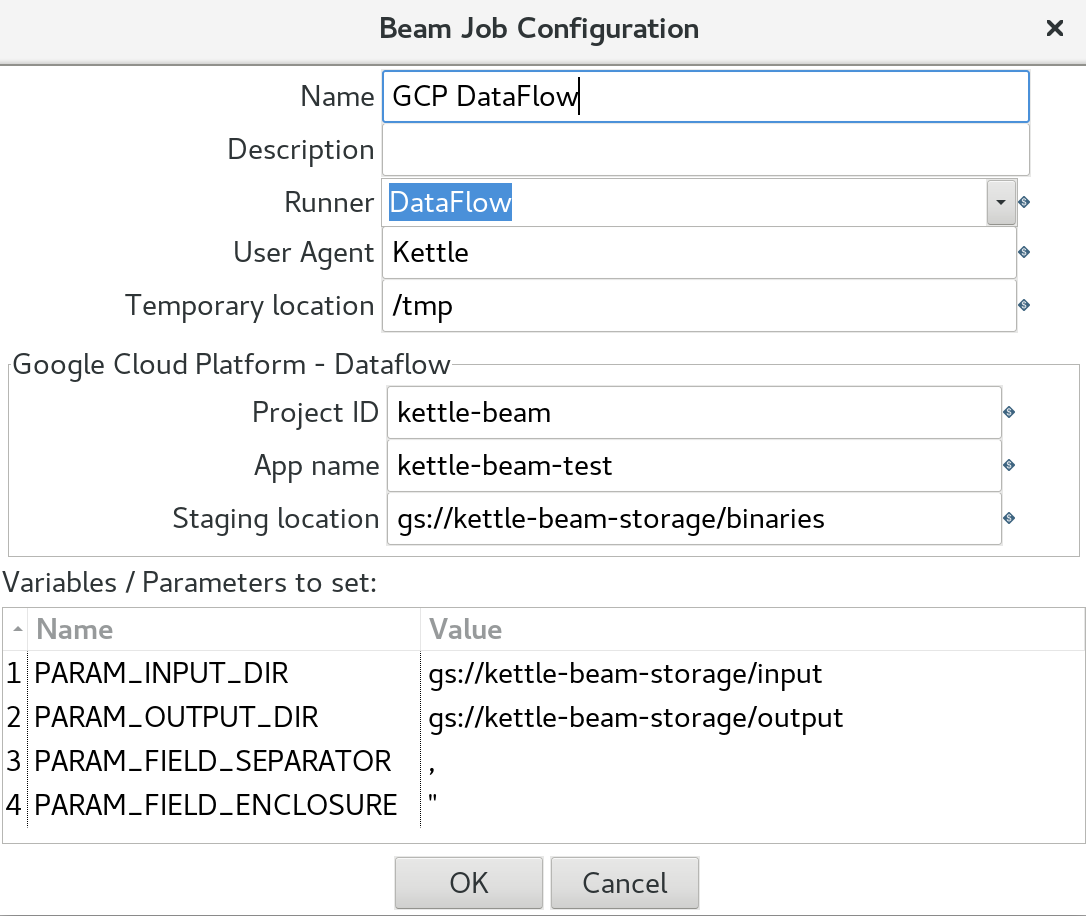
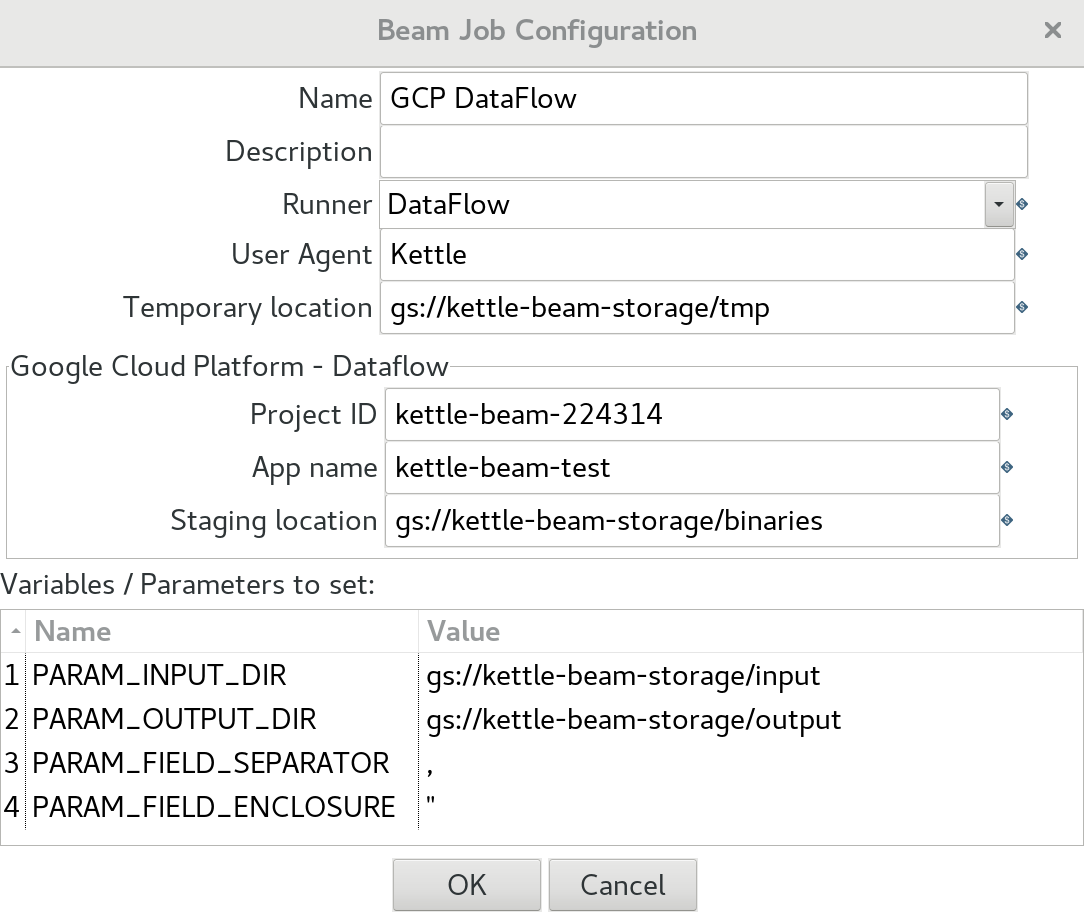
GCP DataFlow details extended

Changed region(s): [[0.0, 0.0, 1.0, 0.917], [0.3653, 0.6725, 0.7915, 0.7948], [0.3653, 0.917, 0.6393, 1.0]]

diff --git a/_posts/2018-12-01-Kettle-Beam.md b/_posts/2018-12-01-Kettle-Beam.md
@@ -248,7 +248,7 @@ You can execute the **PDI Beam Pipeline** via **Beam > Run this transformation o
 
 > **Note**: This works as well with **PDI CE** (Community Edition, the one you downloaded from SourceForge) - no **EE** subscription required.
 
-### GCP Setup
+### Setting up a Service Account
 
 Background info:
 
@@ -265,8 +265,7 @@ Before gettings started make sure you have GCP account set up and you have the r
 5. Assign your **service account** to the **custom role**. Go back to the **IAM** page, click on the **pencil** icon left next to the service account and click on the **Role** pull-down menu. Type `beam` into the filter and then select our `kettle-beam-role`.
 6. Create a **storage bucket**: Go to the [GCP Storage page](https://console.cloud.google.com/storage/browser) and click on **Create bucket**. Name it `kettle-beam-storage`. Once created, you should be automatically forwarded to the **Bucket Details** page: Click on **Create folder** and name it `input`. Create two other ones: `binaries`, `output`.
 7. Still on the **Bucket Details** page, click on the `input` folder and click on **Upload files**. Upload the input file for your PDI Beam pipeline.
-8. **Grant service account permissions on your storage bucket**: Still on the **Bucket Details** page, click on the **Permissions** tab. Your service account should already be listed there. We also have to add some additional roles to the service account here: Click on the Down Arrow in the **Roles** column and choose following additional roles: `Dataflow Admin`, `Storage Admin`, `Storage Object Viewer`:
-![](/images/kettle-beam/kettle-beam-10.png)
+8. **Grant service account permissions on your storage bucket**: Still on the **Bucket Details** page, click on the **Permissions** tab. Here your service account should be listed.
 9. Enable the **Compute Engine API** for your project from the [APIs page](https://console.cloud.google.com/project/_/apiui/apis/library) in the Google Cloud Platform Console. Pick your project and search for `Compute Engine API`. After a few clicks you come to the full info page. Give it a minute or so to show the **Manage** etc buttons. In my case the **API enabled** status was already shown:
 ![](/images/kettle-beam/kettle-beam-9.png)
   Following APIs are required (most of them are enabled by default):
@@ -310,6 +309,43 @@ GOOGLE_CLOUD_PROJECT=yourproject # this one is no longer needed
 # since now include in the PDI Beam job config
 ```
 
+### Working with the Google Cloud SDK Command Line Tools
+
+You might have the [Cloud SDK](https://cloud.google.com/sdk/docs/quickstart-linux) command line tools already installed. 
+
+In case you are wondering with which user you are running the commands, execute this:
+
+```bash
+$ gcloud auth list 
+            Credentialed Accounts
+ACTIVE  ACCOUNT
+*       diethard.steiner@bissolconsulting.com
+
+To set the active account, run:
+    $ gcloud config set account `ACCOUNT`
+``` 
+
+If you created the project earlier on, you can list all projects like so:
+
+```bash
+$ gcloud projects list
+```
+
+You can switch to the `kettle-beam` project run:
+
+```bash
+$ gcloud config set project kettle-beam
+$ gcloud config list project
+[core]
+project = kettle-beam
+
+Your active configuration is: [default]
+```
+
+> **Note**: `GOOGLE_APPLICATION_CREDENTIALS` are not used by the gcloud client tools and there is no way to set this. See also [here](https://serverfault.com/questions/848580/how-to-use-google-application-credentials-with-gcloud-on-a-server). It is only used for **service accounts**.
+
+There many command options available which you can explore by yourself easily.
+
 ### Testing Basic GCP Connection from within Spoon
 
 Restart **Spoon** and choose **File > Open URL**. From the **Open File** dialog pick **Google Cloud Storage** from the **Location** pull-down menu. You will notice that the folder path automatically changes to `gs://`, but no files or folders are shown. Just add your bucket name to the folder path (e.g `gs://kettle-beam-storage/`) and hit Enter. Now the folder should be displayed:
@@ -321,6 +357,18 @@ Restart **Spoon** and choose **File > Open URL**. From the **Open File** dialog 
 For your transformation create a dedicated **GCP DataFlow** config, e.g.:
 
 ![](/images/kettle-beam/kettle-beam-7.png)
+> **Important**: Prefix all paths with `gs://` (also for the **Temporary Location**). Also pay attention to the **Project ID**: This is not the name but - well as it says - the ID (which can be different). If you are not sure what the project ID is, simply click on the project picker at the top of the Web UI and the pop-up will show you the project name with the ID:
+
+![](/images/kettle-beam/kettle-beam-11.png)
+
+Alternatively, you can query the **project ID** with the command line tool:
+
+```bash
+$ gcloud projects list
+PROJECT_ID            NAME                PROJECT_NUMBER
+k8s-pentaho-server    k8s-pentaho-server  619953174803
+kettle-beam-224314    kettle-beam         684324837668
+```
 
 The first time you run the **PDI Beam pipeline** in **GCP DataFlow ** it will be quite slow:
 
@@ -328,7 +376,43 @@ In the **Beam Job Configuration** within the **DataFlow** settings you define un
 
 Note that any other file paths you define should also follow this VFS pattern, e.g. `gs://ketteldataflow/input/sales-data.csv`.
 
-... content still developing ...
+### Running the PDI Beam Pipeline
+
+This is no differnt from any other PDI Beam execution - just pick the correct config.
+
+Once started, you should after a bit see this screen:
+
+![](/images/kettle-beam/kettle-beam-14.png)
+
+Just click **Yes** and the make your way to the **GCP admin console**. Go to the **DataFlow** section. You should see your **PDI Beam Pipeline** there now:
+
+![](/images/kettle-beam/kettle-beam-12.png)
+
+Click on your **Job** and you should see some more details:
+
+![](/images/kettle-beam/kettle-beam-13.png)
+
+
+### How to check if it is working
+
+As mentioned above, the first time your execute the process on **GCP DataFlow**, it will take a bit for the binaries to be uploaded to **GCP Storage**: This might give the impression that nothing is happening. The best thing to do in this case is to check if the jar files are showing up in the `binaries` folder in the **GCP Storage bucket**. You can do this via the web interface or by running e.g. following command:
+
+```bash
+$ gsutil du -sh gs://kettle-beam-storage/binaries
+397.17 MiB  gs://kettle-beam-storage/binaries
+```
+
+As you can see, all the uploaded jar files amount to nearly 400MB.
+
+### Common Errors
+
+If there are permission issues, Spoon will show the error message in a pop-up, e.g.: 
+
+```
+Failed to create a workflow job: (7b5183c85358d0cf): Could not create workflow; user does not have write access to project: kettle-beam Causes: (7b5183c85358d196): Permission 'dataflow.jobs.create' denied on project: 'kettle-beam'
+```
+
+In my case I did originally specify the project name instead of the project ID in the Beam job config. Changing this resolved the problem.
 
 ## Analysing the Stats
 
